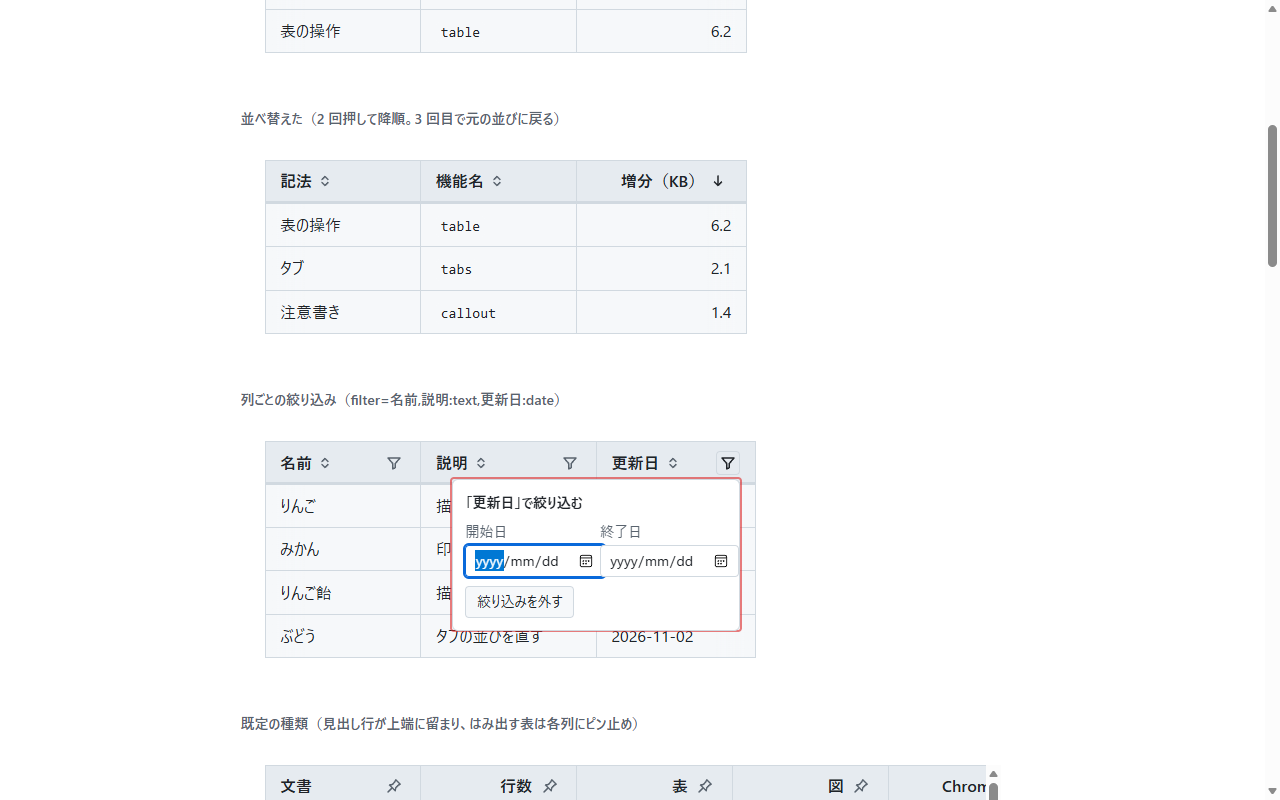
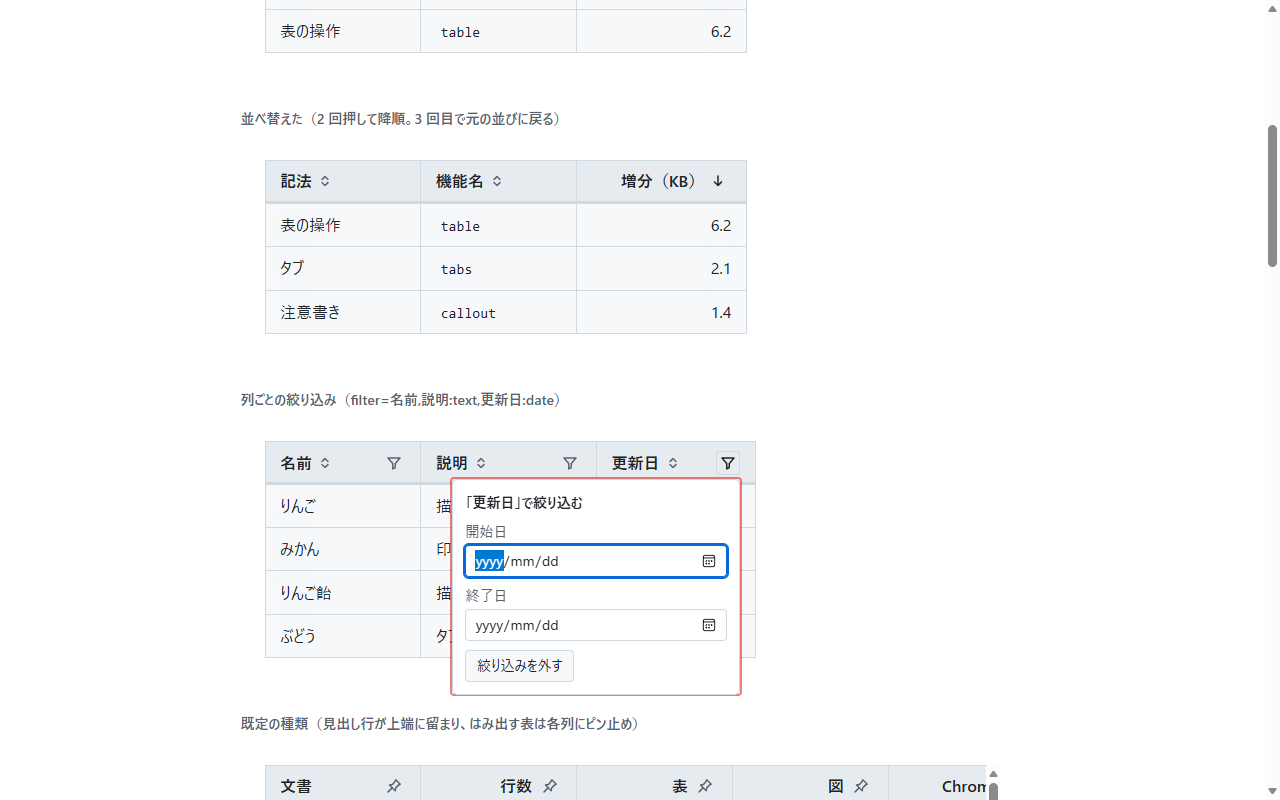
design: 期間の絞り込みの開始日と終了日を縦に積み、絞り込みのドロワーの場面を撮り直す

Changed region(s): [[0.3438, 0.6562, 0.5938, 0.875], [0.5625, 0.8438, 0.5938, 0.875]]

diff --git a/dev/mock/refs/19/assets/syntax.css b/dev/mock/refs/19/assets/syntax.css
@@ -263,11 +263,10 @@
       }
     }
 
-    /* 期間の入力欄: 開始日と終了日を横に並べ、狭い幅では縦に積む */
+    /* 期間の入力欄: 日付の入力欄はドロワーの幅に 2 つ並ばないので、開始日と終了日を縦に積む */
     .mdmark-filter-range {
       display: grid;
-      grid-template-columns: repeat(auto-fit, minmax(7.5rem, 1fr));
-      gap: 0.5em;
+      gap: 0.6em;
     }
 
     /* 値の候補: チェックボックスを縦に並べる */
